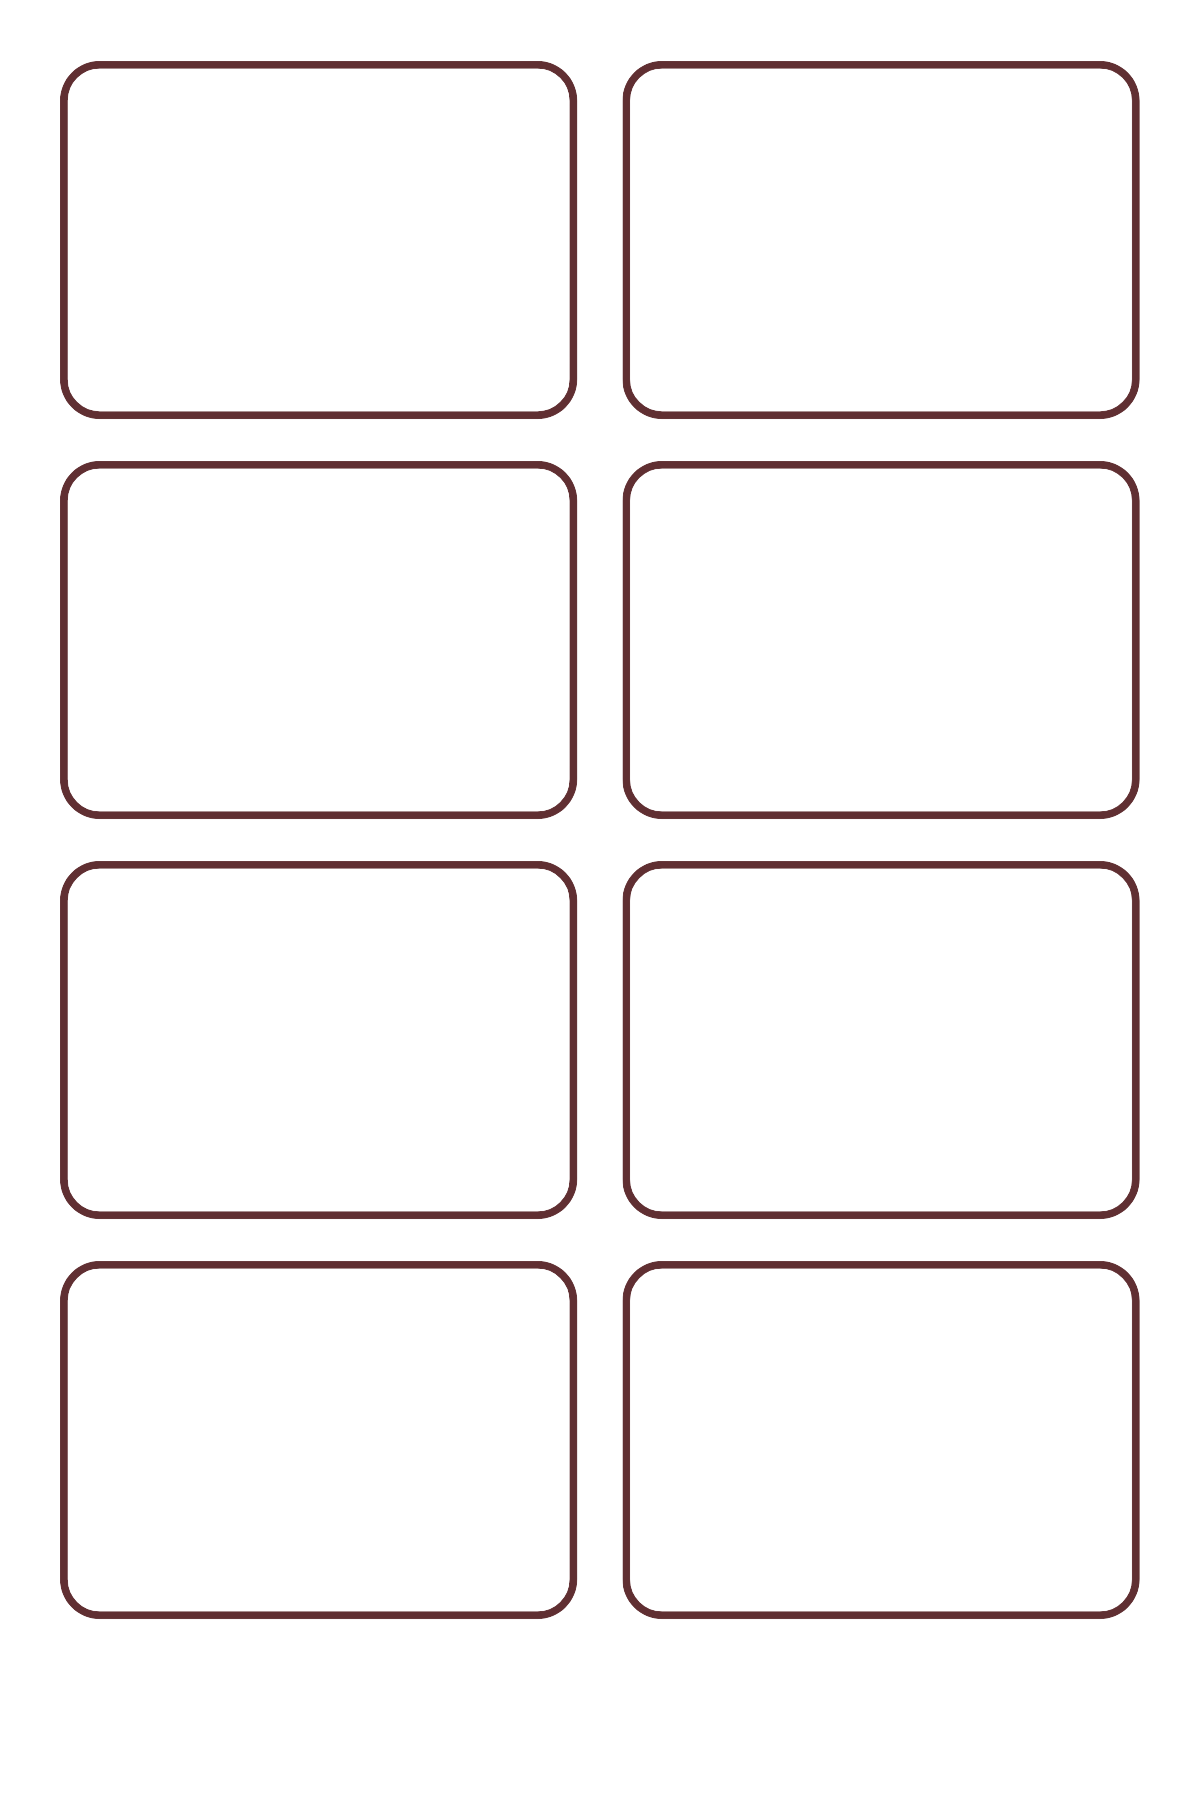
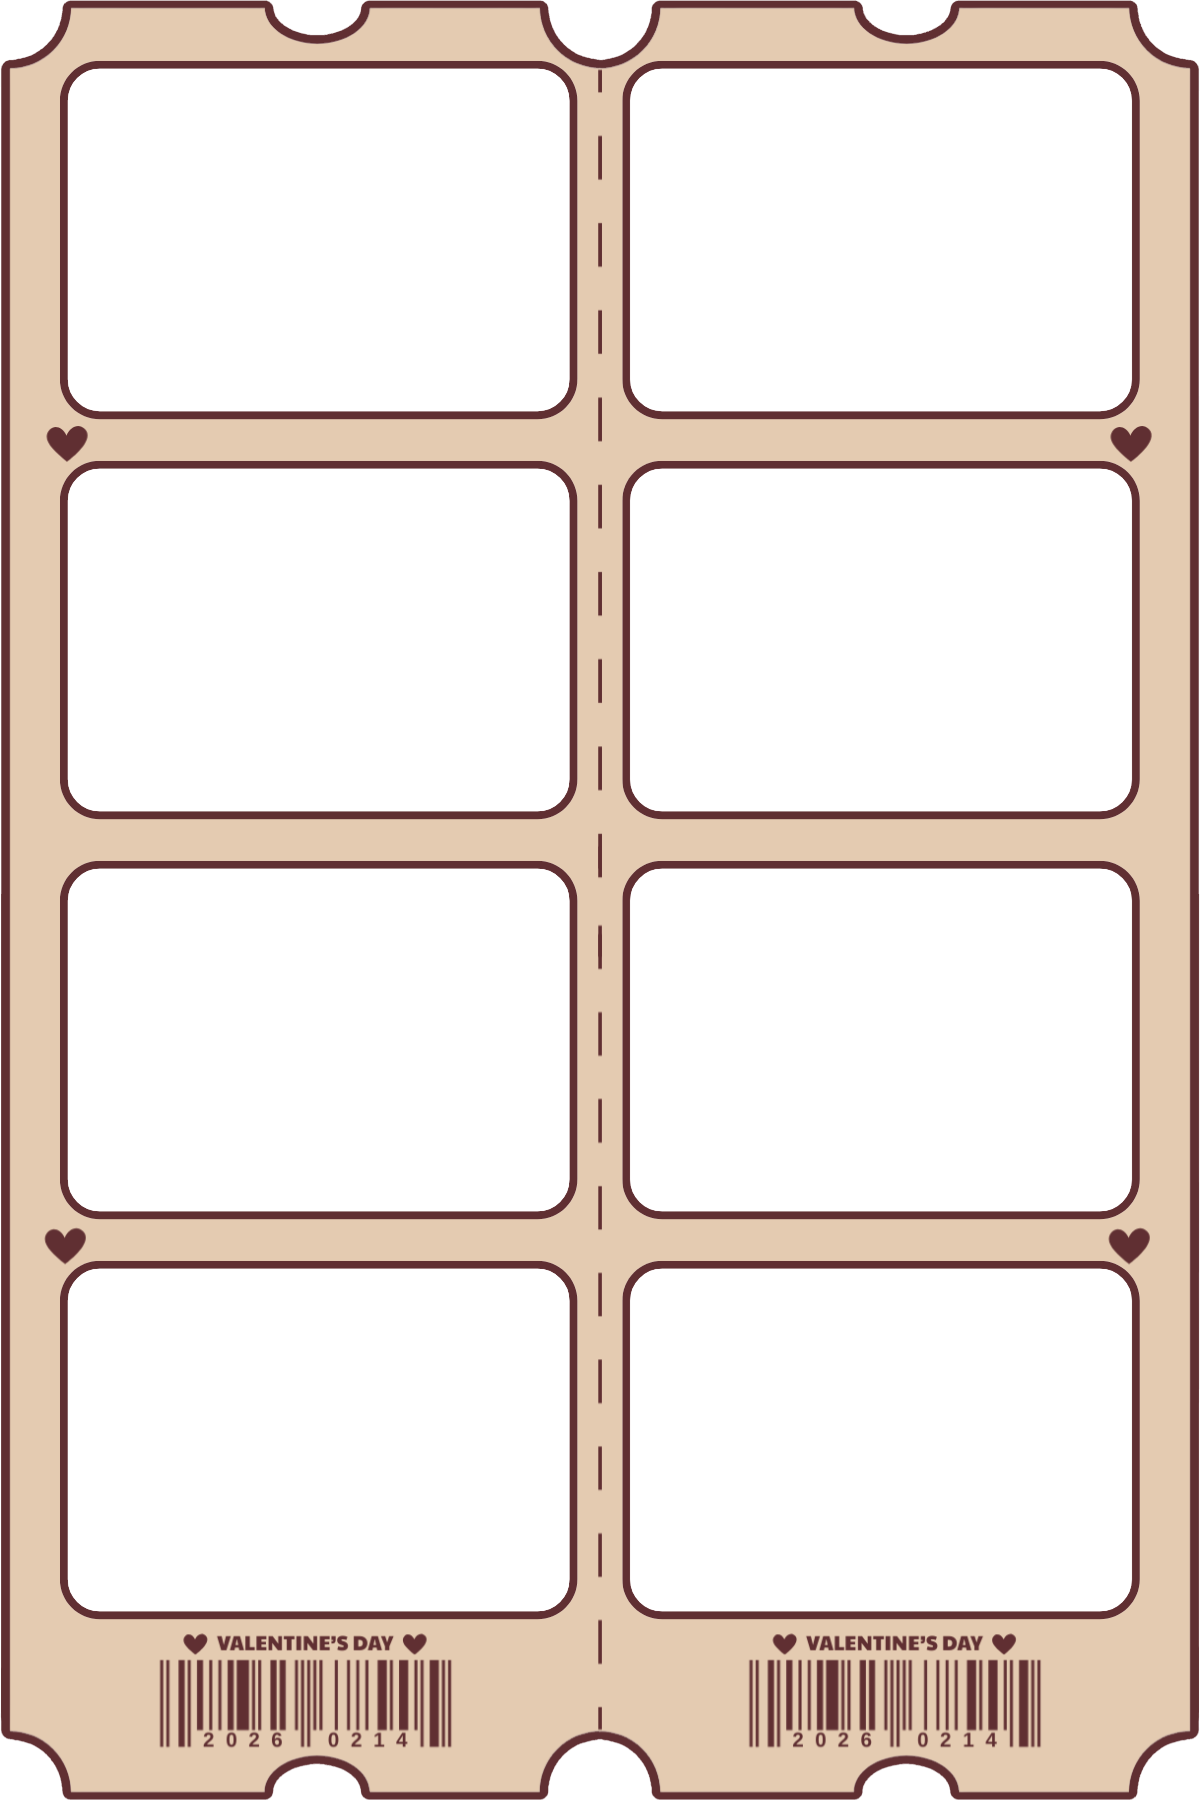
feat: add love ticket

diff --git a/src/constants/assets.ts b/src/constants/assets.ts
@@ -51,12 +51,12 @@ export const FRAMES: Frame[] = [
       {
         count: 4,
         overlayUrl: "/love-ticket/4/overlay.png",
-        backgroundUrl: "/love-ticket/4/bg.png",
+        backgroundUrl: null,
       },
       {
         count: 8,
         overlayUrl: "/love-ticket/8/overlay.png",
-        backgroundUrl: "/love-ticket/8/bg.png",
+        backgroundUrl: null,
       },
     ],
     isNew: true,
